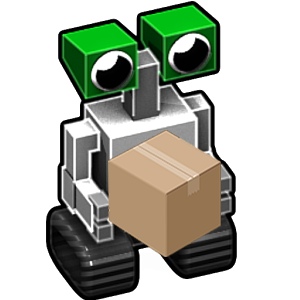
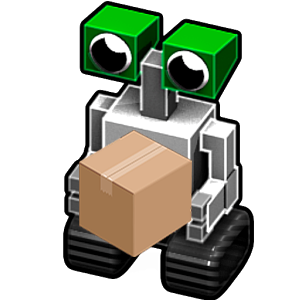
vsem po korobke

diff --git a/index.js b/index.js
@@ -62,6 +62,7 @@ class PaintingStation {
                 console.log("docked producing");
                 this.state = ConveyorState.filled;
                 this.dockedProducing.state = RobotState.empty;
+                this.dockedProducing?.updateVisual();
                 this.dockedProducing.behavior.proceed();
                 this.dockedProducing = null;
             }
@@ -77,6 +78,7 @@ class PaintingStation {
                     console.log("docked consuming");
                     this.state = ConveyorState.empty;
                     this.dockedConsuming.state = RobotState.filled;
+                    this.dockedConsuming?.updateVisual();
                     this.dockedConsuming.behavior.proceed();
                     this.dockedConsuming = null;
                     this.score = 0;
@@ -156,6 +158,7 @@ class ProducingConveyor {
         if (this.state === ConveyorState.filled) {
             if (this.dockedRobot !== null) {
                 this.dockedRobot.state = RobotState.filled;
+                this.dockedRobot?.updateVisual();
                 this.dockedRobot.behavior.proceed();
                 this.dockedRobot = null;
                 this.state = ConveyorState.empty;
@@ -208,6 +211,7 @@ class ConsumingConveyor {
         if (this.state === ConveyorState.empty) {
             if (this.dockedRobot !== null) {
                 this.dockedRobot.state = RobotState.empty;
+                this.dockedRobot?.updateVisual();
                 this.dockedRobot.behavior.proceed();
                 this.dockedRobot = null;
                 this.state = ConveyorState.filled;
@@ -227,6 +231,22 @@ class Robot {
 
     setBehavior(behavior) {
         this.behavior = behavior;
+    }
+
+    updateVisual() {
+        if(this.state === RobotState.empty) {
+            if(this.element.id === "robot-1") {
+                this.element.src = "assets/robot-1.png"
+            } else {
+                this.element.src = "assets/robot-1_left.png"
+            }
+        } else {
+            if(this.element.id === "robot-1") {
+                this.element.src = "assets/robot-1_with_box_right.png"
+            } else {
+                this.element.src = "assets/robot-1_with_painted_box.png"
+            }
+        }
     }
 
     update() {

diff --git a/style.css b/style.css
@@ -51,8 +51,8 @@ section {
 
 
 img[id^="conveyor"] {
-    width: 130px;
-    height: 50px;
+    width: 170px;
+    height: 70px;
     margin: 3px;
 }
 
